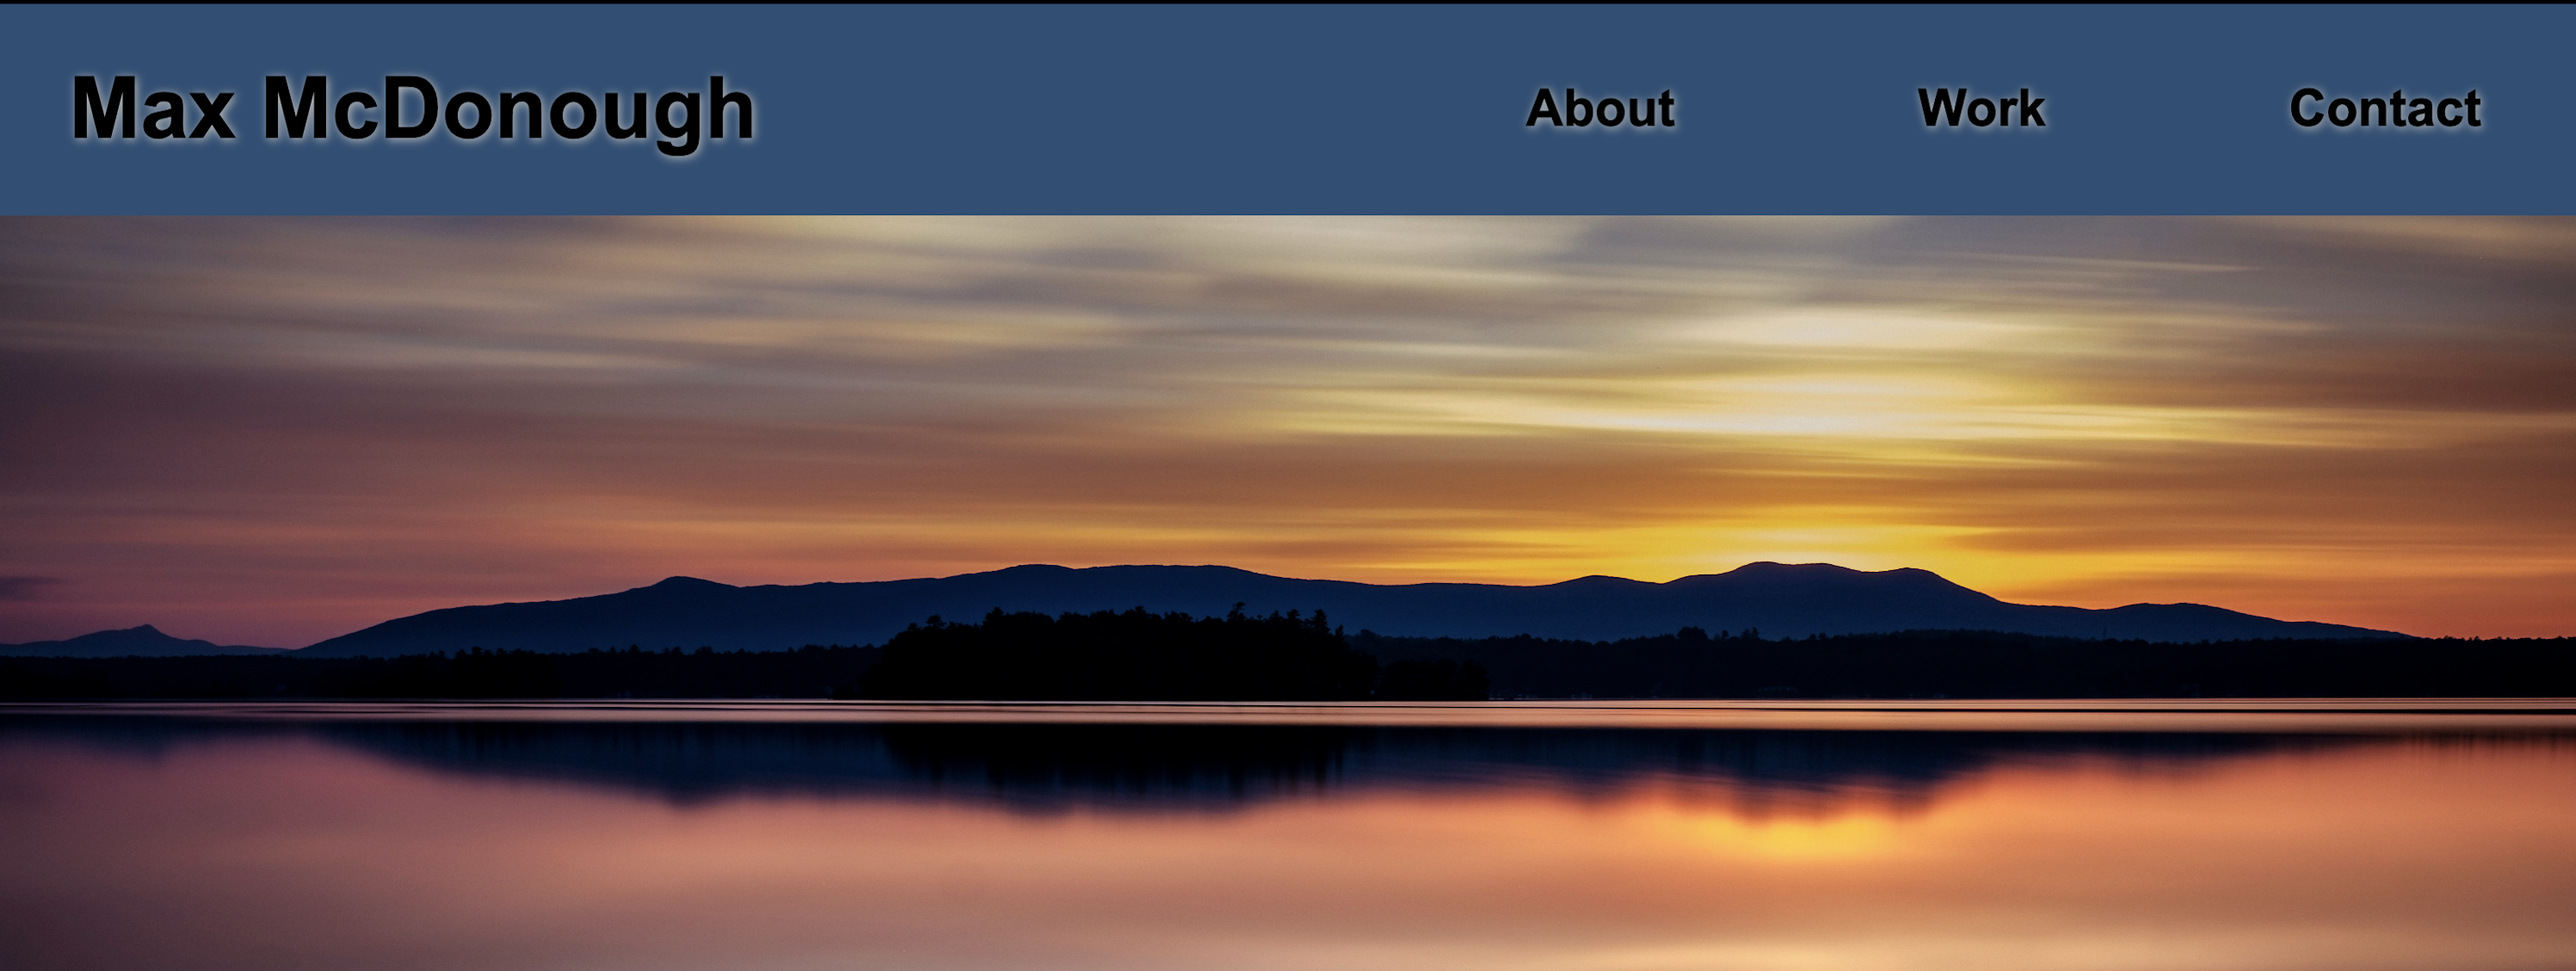
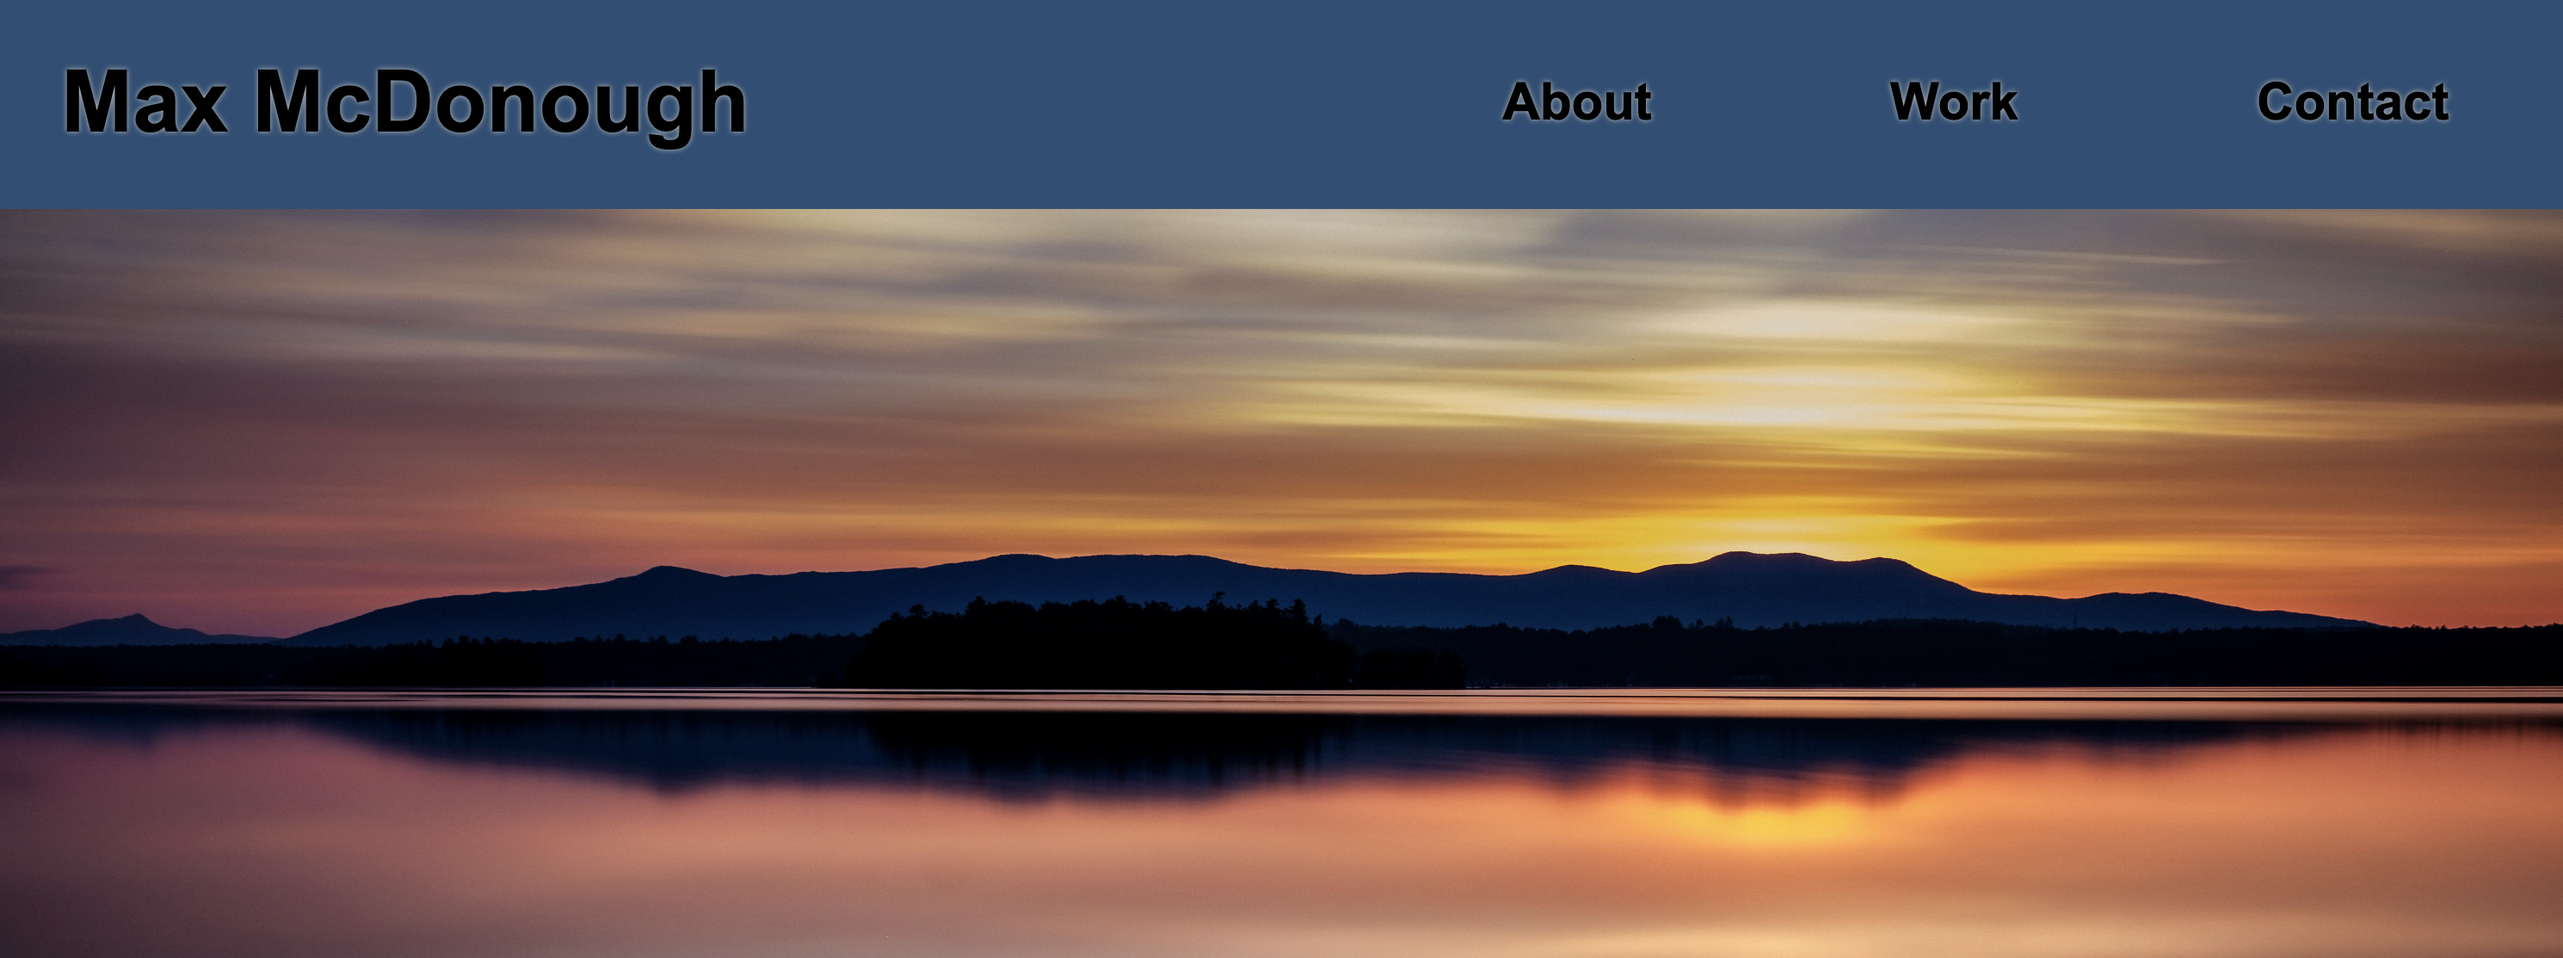
Added extra work screenshots and fixed deployed work links (v2.2)

diff --git a/index.html b/index.html
@@ -45,7 +45,7 @@
                </figure>
                <article>
                 <p>After graduating with a BA in Film and Video Production from Georgia State University in 2004, I spent over 16 years working as a freelancer in the Movie and TV industry in Atlanta. I worked in a variety of differnet crew postions on many differnet types of productions. For the last 8 years I have worked primarily as a Camera Operator on non-scripted television shows.</p>
-                <p>During that time I added work as a stills Photographer, focusing on long exposure landscape photography. In 2017, I obtained my FAA remote pilot's license and began work in Drone Photography and Videography.</p>
+                <p>During that time I added work as a Stills Photographer, focusing on long exposure landscape photography. In 2017, I obtained my FAA remote pilot's license and began work in Drone Photography and Videography.</p>
                 <p>Following a long work hiatus at the start of the covid-19 pandemic, I craved a career change. Deciding to focus in Web Development, I completed self-guided, online courses in HTML and CSS. After deciding I needed a more structured learning environment, I enrolled in Georgia Tech's part time Full Stack Development Bootcamp in the spring of 2022.</p>
                </article>
             </div>
@@ -60,8 +60,8 @@
             <div class="section-content" id="work-content">
                 <!-- Lead Work Link, Appears Bigger -->
                 <figure class="work-link" id="lead-work-link">
-                    <a href="#">
-                        <img src="/assets/photos/portfolio-site-screenshot.png" alt="Screenshot of this portfolio site" />
+                    <a href="https://mmmphoto.github.io/Module_2_Challenge_Portfolio/" target="_blank">
+                        <img src="/assets/photos/portfolio-site-screenshot.png" alt="Image of this portfolio site" />
                     </a>
                     <div class="work-title">
                         <h3>This Portfolio Site</h3>
@@ -70,7 +70,26 @@
                 </figure>
                 <!-- Secondary Work Links -->
                 <figure class="work-link">
-                    <!-- C/O https://placeholder.com/ -->
+                    <a href="https://mmmphoto.github.io/Module_1_Challenge/" target="_blank">
+                        <img class="work-image" src="/assets/photos/module-1-screenshot.png" alt="Image of the refactoring challenge for Module 1 of the Gerogia Tech Bootcamp" />
+                    </a>
+                    <div class="work-title">
+                        <h3>Code Refactoring Project</h3>
+                        <p>HTML, CSS</p>
+                    </div>
+                </figure>
+                <figure class="work-link">
+                    <a href="https://mmmphoto.github.io/Mod_2_28-Stu_Mini_Project/" target="_blank">
+                        <img src="./assets/photos/css-snippet-screenshot.png" alt="Image of the 'CSS Snippet' Mini-Project for Module 2 of the Georgia Tech Bootcamp" />
+                    </a>
+                    <div class="work-title">
+                        <h3>CSS Snippet Cheatsheet</h3>
+                        <p>HTML, CSS</p>
+                    </div>
+                </figure>
+                <!-- Template for Future Work Links Commented Out Below -->
+                <!--
+                <figure class="work-link">
                     <img src="https://via.placeholder.com/400x200" alt="placeholder image" />
                     <div class="work-title">
                         <h3>Work Title</h3>
@@ -78,33 +97,16 @@
                     </div>
                 </figure>
                 <figure class="work-link">
-                    <!-- C/O https://placeholder.com/ -->
                     <img src="https://via.placeholder.com/400x200" alt="placeholder image" />
                     <div class="work-title">
                         <h3>Work Title</h3>
                         <p>Subheading</p>
                     </div>
-                </figure>
-                <figure class="work-link">
-                    <!-- C/O https://placeholder.com/ -->
-                    <img src="https://via.placeholder.com/400x200" alt="placeholder image" />
-                    <div class="work-title">
-                        <h3>Work Title</h3>
-                        <p>Subheading</p>
-                    </div>
-                </figure>
-                <figure class="work-link">
-                    <!-- C/O https://placeholder.com/ -->
-                    <img src="https://via.placeholder.com/400x200" alt="placeholder image" />
-                    <div class="work-title">
-                        <h3>Work Title</h3>
-                        <p>Subheading</p>
-                    </div>
-                </figure>
+                </figure> -->
             </div>
         </section>
         <!-- Contact Section -->
-        <section>
+        <section id="contact-section">
             <div class="section-header">
                 <h2>Contact Me</h2>
             </div>

diff --git a/assets/css/style.css b/assets/css/style.css
@@ -33,7 +33,7 @@ header {
 
 header h1 {
     font-size: 50px;
-    text-shadow: 1px 1px 6px #b8b8b8;
+    text-shadow: 0px 0px 3px #b8b8b8;
     flex: 1 1 50%;
     margin-left: 40px;
 }
@@ -55,7 +55,7 @@ menu li a {
     color: #000;
     font-size: 30px;
     font-weight: 600;
-    text-shadow: 1px 1px 6px #b8b8b8;
+    text-shadow: 0px 0px 3px #b8b8b8;
 }
 
 main {
@@ -73,7 +73,7 @@ main section h2 {
     font-size: 35px;
     text-align: right;
     color: #000;
-    text-shadow: 1px 1px 6px #e6e6e6;
+    text-shadow: 0px 0px 3px #e6e6e6;
 }
 
 .section-header {
@@ -87,7 +87,7 @@ main section h2 {
     width: 5px;
     height: auto;
     background-color: #000;
-    box-shadow: 1px 1px 6px #e6e6e6;
+    box-shadow: 0px 0px 3px #e6e6e6;
     margin-top: 10px;
     margin-bottom: 10px;
 }
@@ -152,28 +152,29 @@ footer {
     flex: 1 1 40%;
     margin-left: 0px;
     margin-right: 0px;
+    height: 20%;
 }
 
 .work-link img {
-    box-shadow: 1px 1px 6px #e6e6e6;
+    box-shadow: 0px 0px 3px #e6e6e6;
     width: 100%;
     object-fit: cover;
 }
 
 .work-title {
     position: relative;
-    bottom: 120px;
+    bottom: 100px;
     left: 20px;
     background-color: #294f75;
     border-style: solid;
     border-color: black;
-    box-shadow: 1px 1px 1px #e6e6e6;
+    box-shadow: 0px 0px 1px #e6e6e6;
     padding: 10px;
 }
 
 .work-title h3 {
     font-size: 30px;
-    text-shadow: 1px 1px 1px #b8b8b8;
+    text-shadow: 0px 0px 1px #b8b8b8;
     padding: 0px;
     margin: 0px;
 }
@@ -182,6 +183,10 @@ footer {
     font-size: 22px;
     padding: 0px;
     margin: 0px;
+}
+
+#contact-section {
+    margin-top: -150px;
 }
 
 #contact-content {
@@ -195,7 +200,7 @@ footer {
     color: black;
     font-size: 30px;
     font-weight: 600;
-    text-shadow: 1px 1px 6px #e6e6e6;
+    text-shadow: 0px 0px 3px #e6e6e6;
 }
 
 /* Tablet and Small Laptop Screen Formatting  */
